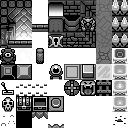
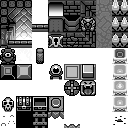
DungeonSheet Optimizations + Repacking
moved ice tile to mainSheet (its not implemented yet)
moved bridge ObjType into section with Pit ObjType for better conceptual grouping.
repacked dungeon sheet placing bridge next to pit.
updated ObjAnimList for Bridge, and Pit Teeth.
playtested, working as expected.

diff --git a/GameClasses/Functions_GameObjectAnimList.cs b/GameClasses/Functions_GameObjectAnimList.cs
@@ -76,10 +76,12 @@ namespace DungeonRun
 
                 //PitAnimated
                 new List<Byte4> { new Byte4(1, 7, 0, 0) },
-                //PitTop
+                //Bridge
                 new List<Byte4> { new Byte4(2, 7, 0, 0) },
-                //PitBottom
+                //PitTop
                 new List<Byte4> { new Byte4(3, 7, 0, 0) },
+                //PitBottom
+                new List<Byte4> { new Byte4(4, 7, 0, 0) },
                 //PitTrap
                 new List<Byte4> { new Byte4(7, 15, 0, 0) },
 
@@ -121,8 +123,7 @@ namespace DungeonRun
                 new List<Byte4> { new Byte4(5, 5, 0, 0) },
                 //Switch
                 new List<Byte4> { new Byte4(3, 6, 0, 0) },
-                //Bridge
-                new List<Byte4> { new Byte4(6, 5, 0, 0) },
+                
                 //SwitchBlockBtn
                 new List<Byte4> { new Byte4(3, 4, 0, 0) },
                 //SwitchBlockDown
@@ -134,7 +135,6 @@ namespace DungeonRun
                 //TorchLit
                 new List<Byte4> { new Byte4(7, 4, 0, 0), new Byte4(7, 5, 0, 0), new Byte4(7, 6, 0, 0) },
                 
-
                 //SpawnEnemy1
                 new List<Byte4> { new Byte4(0, 15, 0, 0) },
                 //SpawnEnemy2

diff --git a/GameClasses/Enumerators.cs b/GameClasses/Enumerators.cs
@@ -63,7 +63,8 @@ namespace DungeonRun
         WallStraight, WallStraightCracked, WallInteriorCorner, WallExteriorCorner, WallPillar, WallStatue, WallTorch,
         BossDecal, DebrisFloor,
         //Editor Room Objects (hand-placed)
-        PitAnimated, PitTop, PitBottom, PitTrap,
+        PitAnimated, Bridge, PitTop, PitBottom, PitTrap, 
+
         BossStatue, Pillar,
         ChestKey, ChestMap, ChestEmpty,
         BlockDark, BlockLight,
@@ -72,7 +73,7 @@ namespace DungeonRun
         SpikesFloorOn, SpikesFloorOff,
         ConveyorBeltOn, ConveyorBeltOff,
         //
-        PotSkull, Bumper, Flamethrower, Switch, Bridge,
+        PotSkull, Bumper, Flamethrower, Switch,
         SwitchBlockBtn, SwitchBlockDown, SwitchBlockUp,
         TorchUnlit, TorchLit, 
         //Enemy Spawn Objects (hand-placed)
